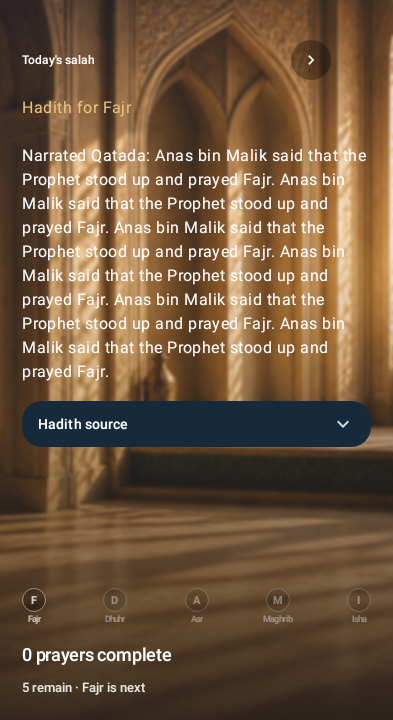
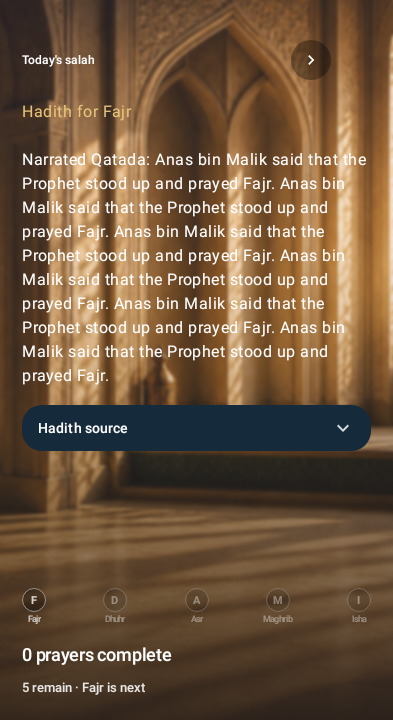
Keep expanded insight headers clear and restore navigation height

Changed region(s): [[0.0611, 0.1222, 0.9466, 0.6417]]

diff --git a/app/src/testDemo/kotlin/com/starception/submission/feature/prayertimes/ExpandedSalahLayoutTest.kt b/app/src/testDemo/kotlin/com/starception/submission/feature/prayertimes/ExpandedSalahLayoutTest.kt
@@ -27,6 +27,7 @@ import com.starception.submission.core.images.resources.Res
 import com.starception.submission.core.images.resources.insight_prayer_background
 import org.junit.Rule
 import org.junit.Test
+import org.junit.Assert.assertTrue
 import org.junit.runner.RunWith
 import org.robolectric.RobolectricTestRunner
 import org.robolectric.annotation.Config
@@ -83,8 +84,11 @@ class ExpandedSalahLayoutTest {
         }
         compose.mainClock.advanceTimeBy(1_200)
         compose.waitForIdle()
-        compose.onNodeWithText("Today's salah").fetchSemanticsNode()
-        compose.onNodeWithText("Hadith for Fajr").fetchSemanticsNode()
+        val tileLabel = compose.onNodeWithText("Today's salah", useUnmergedTree = true)
+            .fetchSemanticsNode().boundsInRoot
+        val hadithHeading = compose.onNodeWithText("Hadith for Fajr", useUnmergedTree = true)
+            .fetchSemanticsNode().boundsInRoot
+        assertTrue("Hadith heading must clear the tile label", hadithHeading.top > tileLabel.bottom)
         compose.onRoot().captureRoboImage("src/testDemo/screenshots/expanded_salah_header.png")
     }
 }

diff --git a/app/src/main/kotlin/com/starception/submission/feature/prayertimes/SwipeableBigTiles.kt b/app/src/main/kotlin/com/starception/submission/feature/prayertimes/SwipeableBigTiles.kt
@@ -4693,10 +4693,13 @@ internal fun InsightPreviewCard(
                         .padding(
                             start = titleHorizontalPadding,
                             end = titleHorizontalPadding,
-                            top = (
-                                (if (isReadingHeader) 104f else if (prayerRecap.isNotEmpty()) 88f else 64f) -
-                                    16f * chromeProgress
-                                ).dp,
+                            // The label/action row follows the status-bar inset.
+                            // Anchor the reader below that actual row as well as
+                            // its normal editorial offset on every screen size.
+                            top = (maxOf(
+                                if (isReadingHeader) 104.dp else if (prayerRecap.isNotEmpty()) 88.dp else 64.dp,
+                                tagTopInset + 56.dp,
+                            ) - 16.dp * chromeProgress),
                             bottom = (24f - 16f * chromeProgress).dp,
                         ),
                     spacing = 12.dp,

diff --git a/app/src/main/kotlin/com/starception/submission/ui/NiaApp.kt b/app/src/main/kotlin/com/starception/submission/ui/NiaApp.kt
@@ -453,7 +453,9 @@ private fun NiaFloatingBottomBar(
             val colorScheme = MaterialTheme.colorScheme
             val portraitDark = darkTheme && !vertical
             val portraitLight = !darkTheme && !vertical
-            val navBarHeight = 50.dp
+            // Keep the same full-height portrait navigation on Home and the
+            // other destinations; the compact Home variant shortened the pill.
+            val navBarHeight = if (vertical) 50.dp else 56.dp
             val capsuleGap = 4.dp
             Surface(
                 shape = RoundedCornerShape(navBarHeight / 2),
